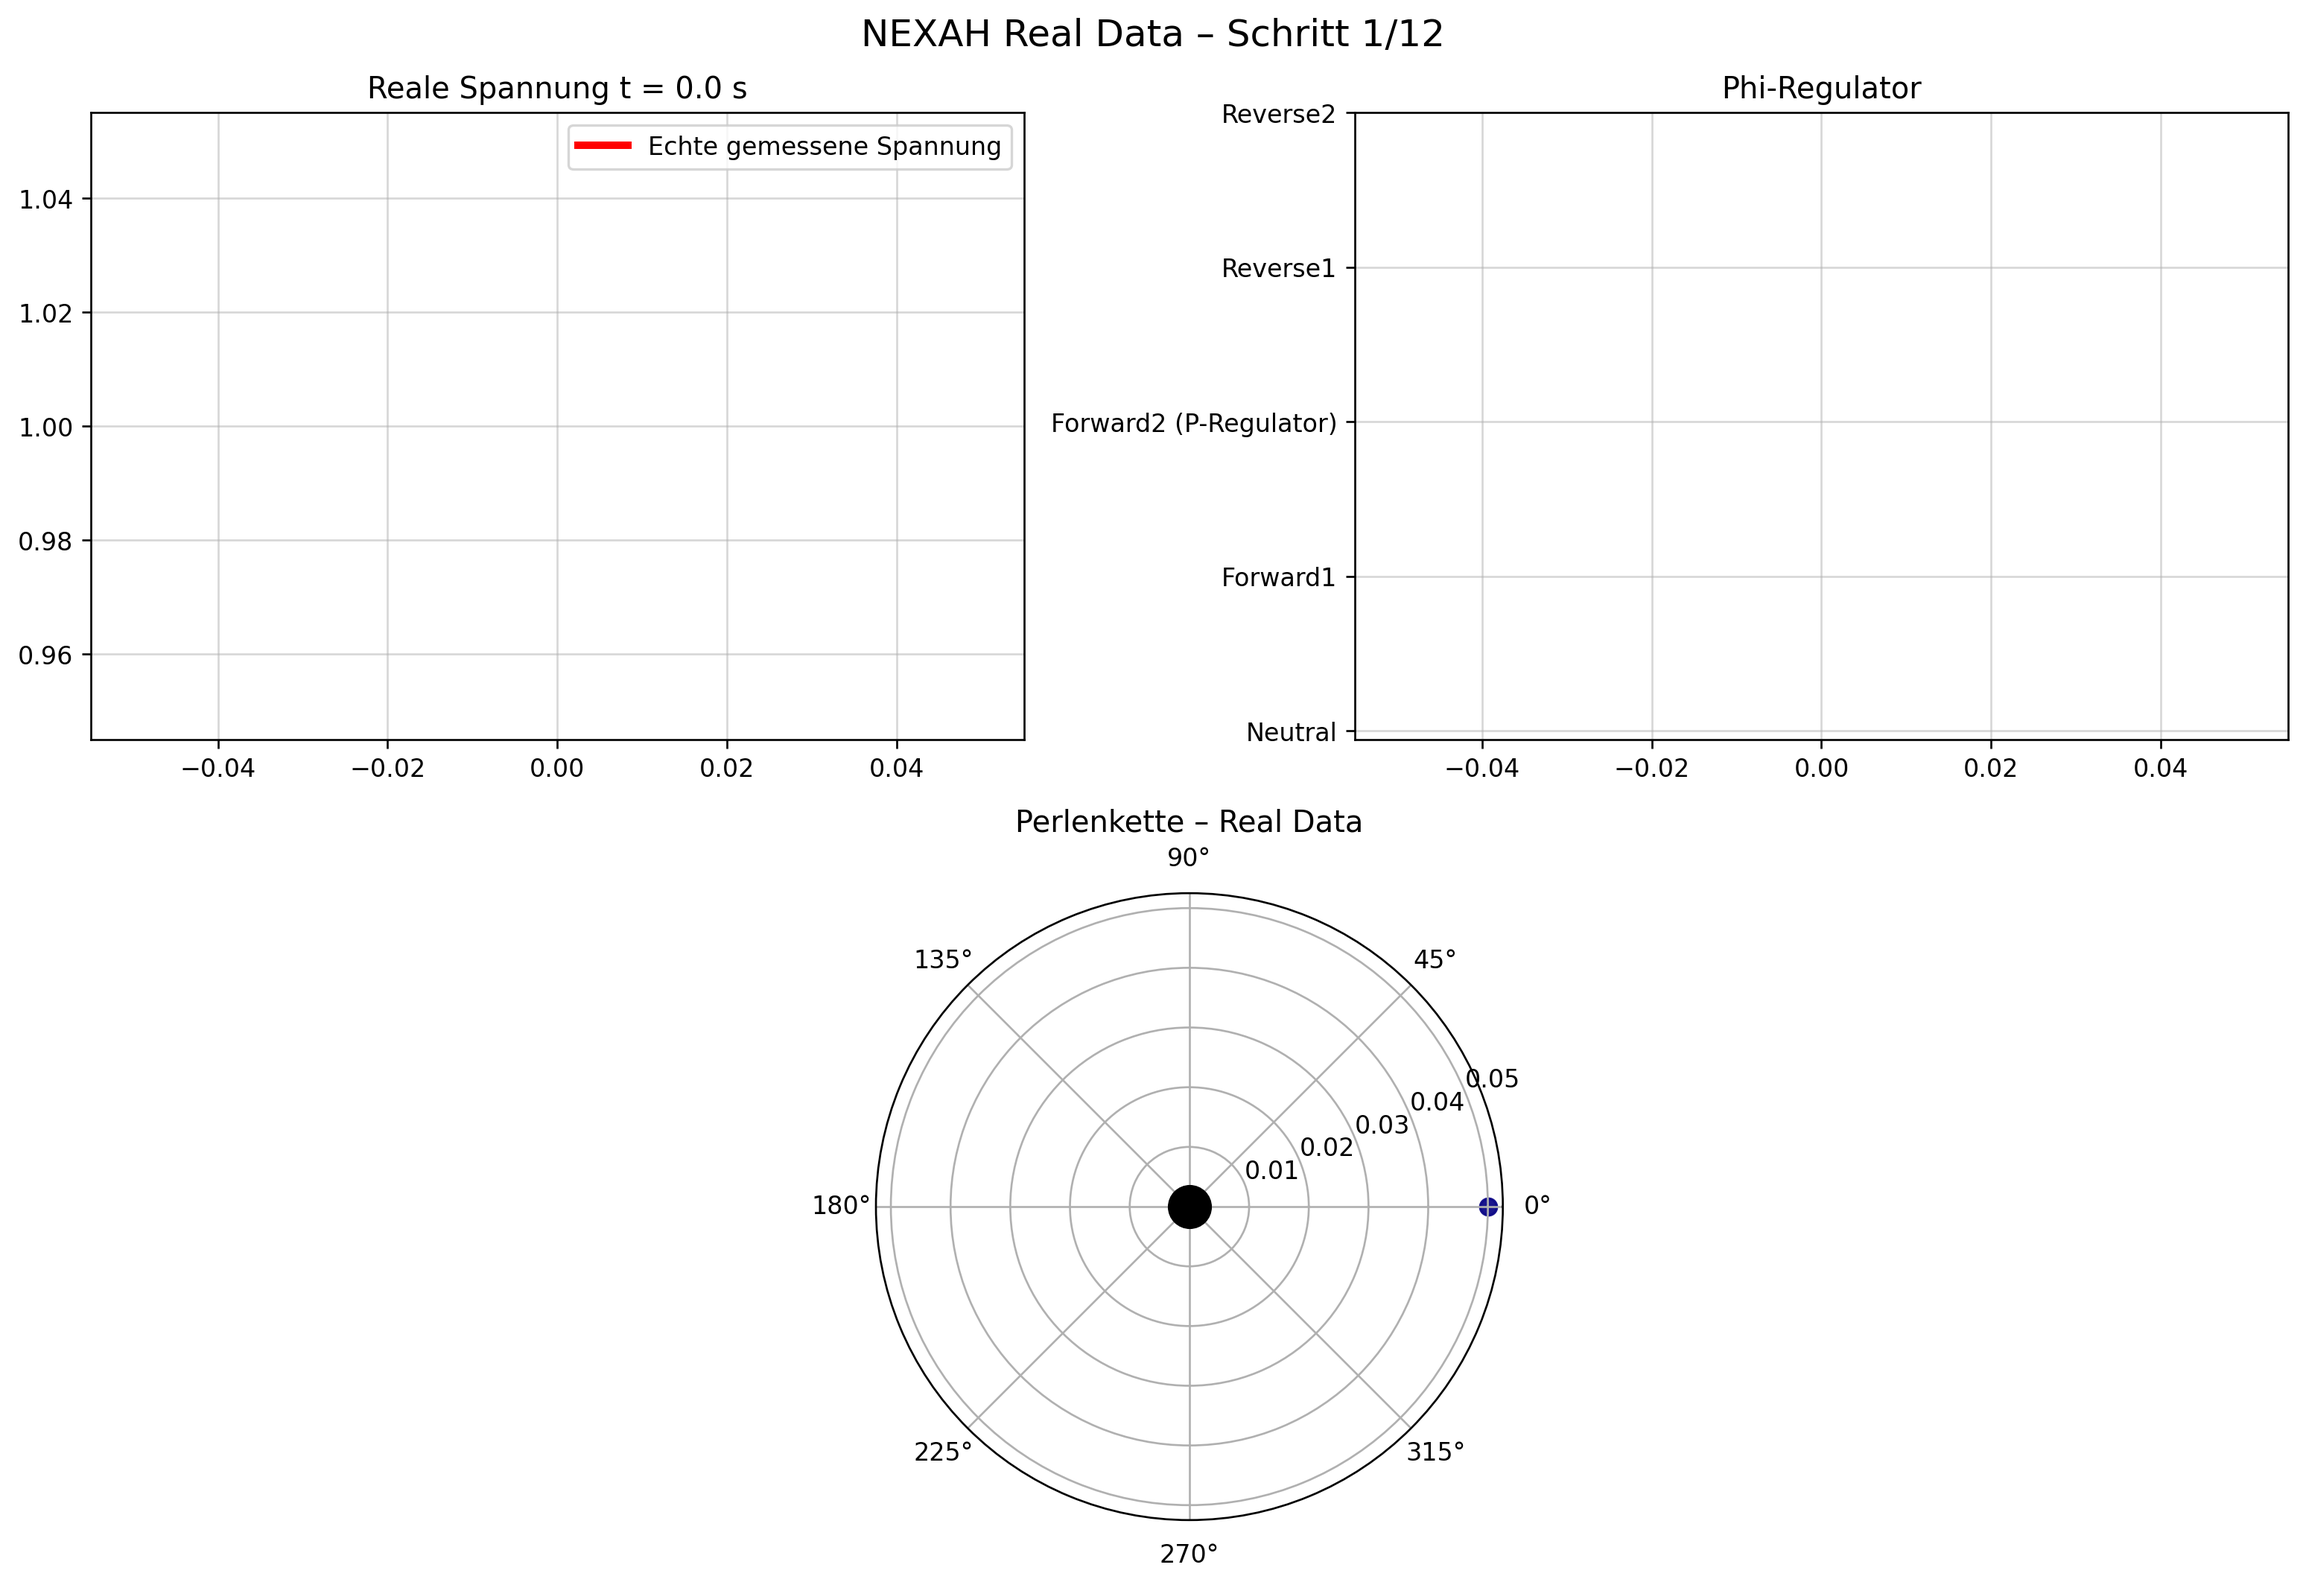
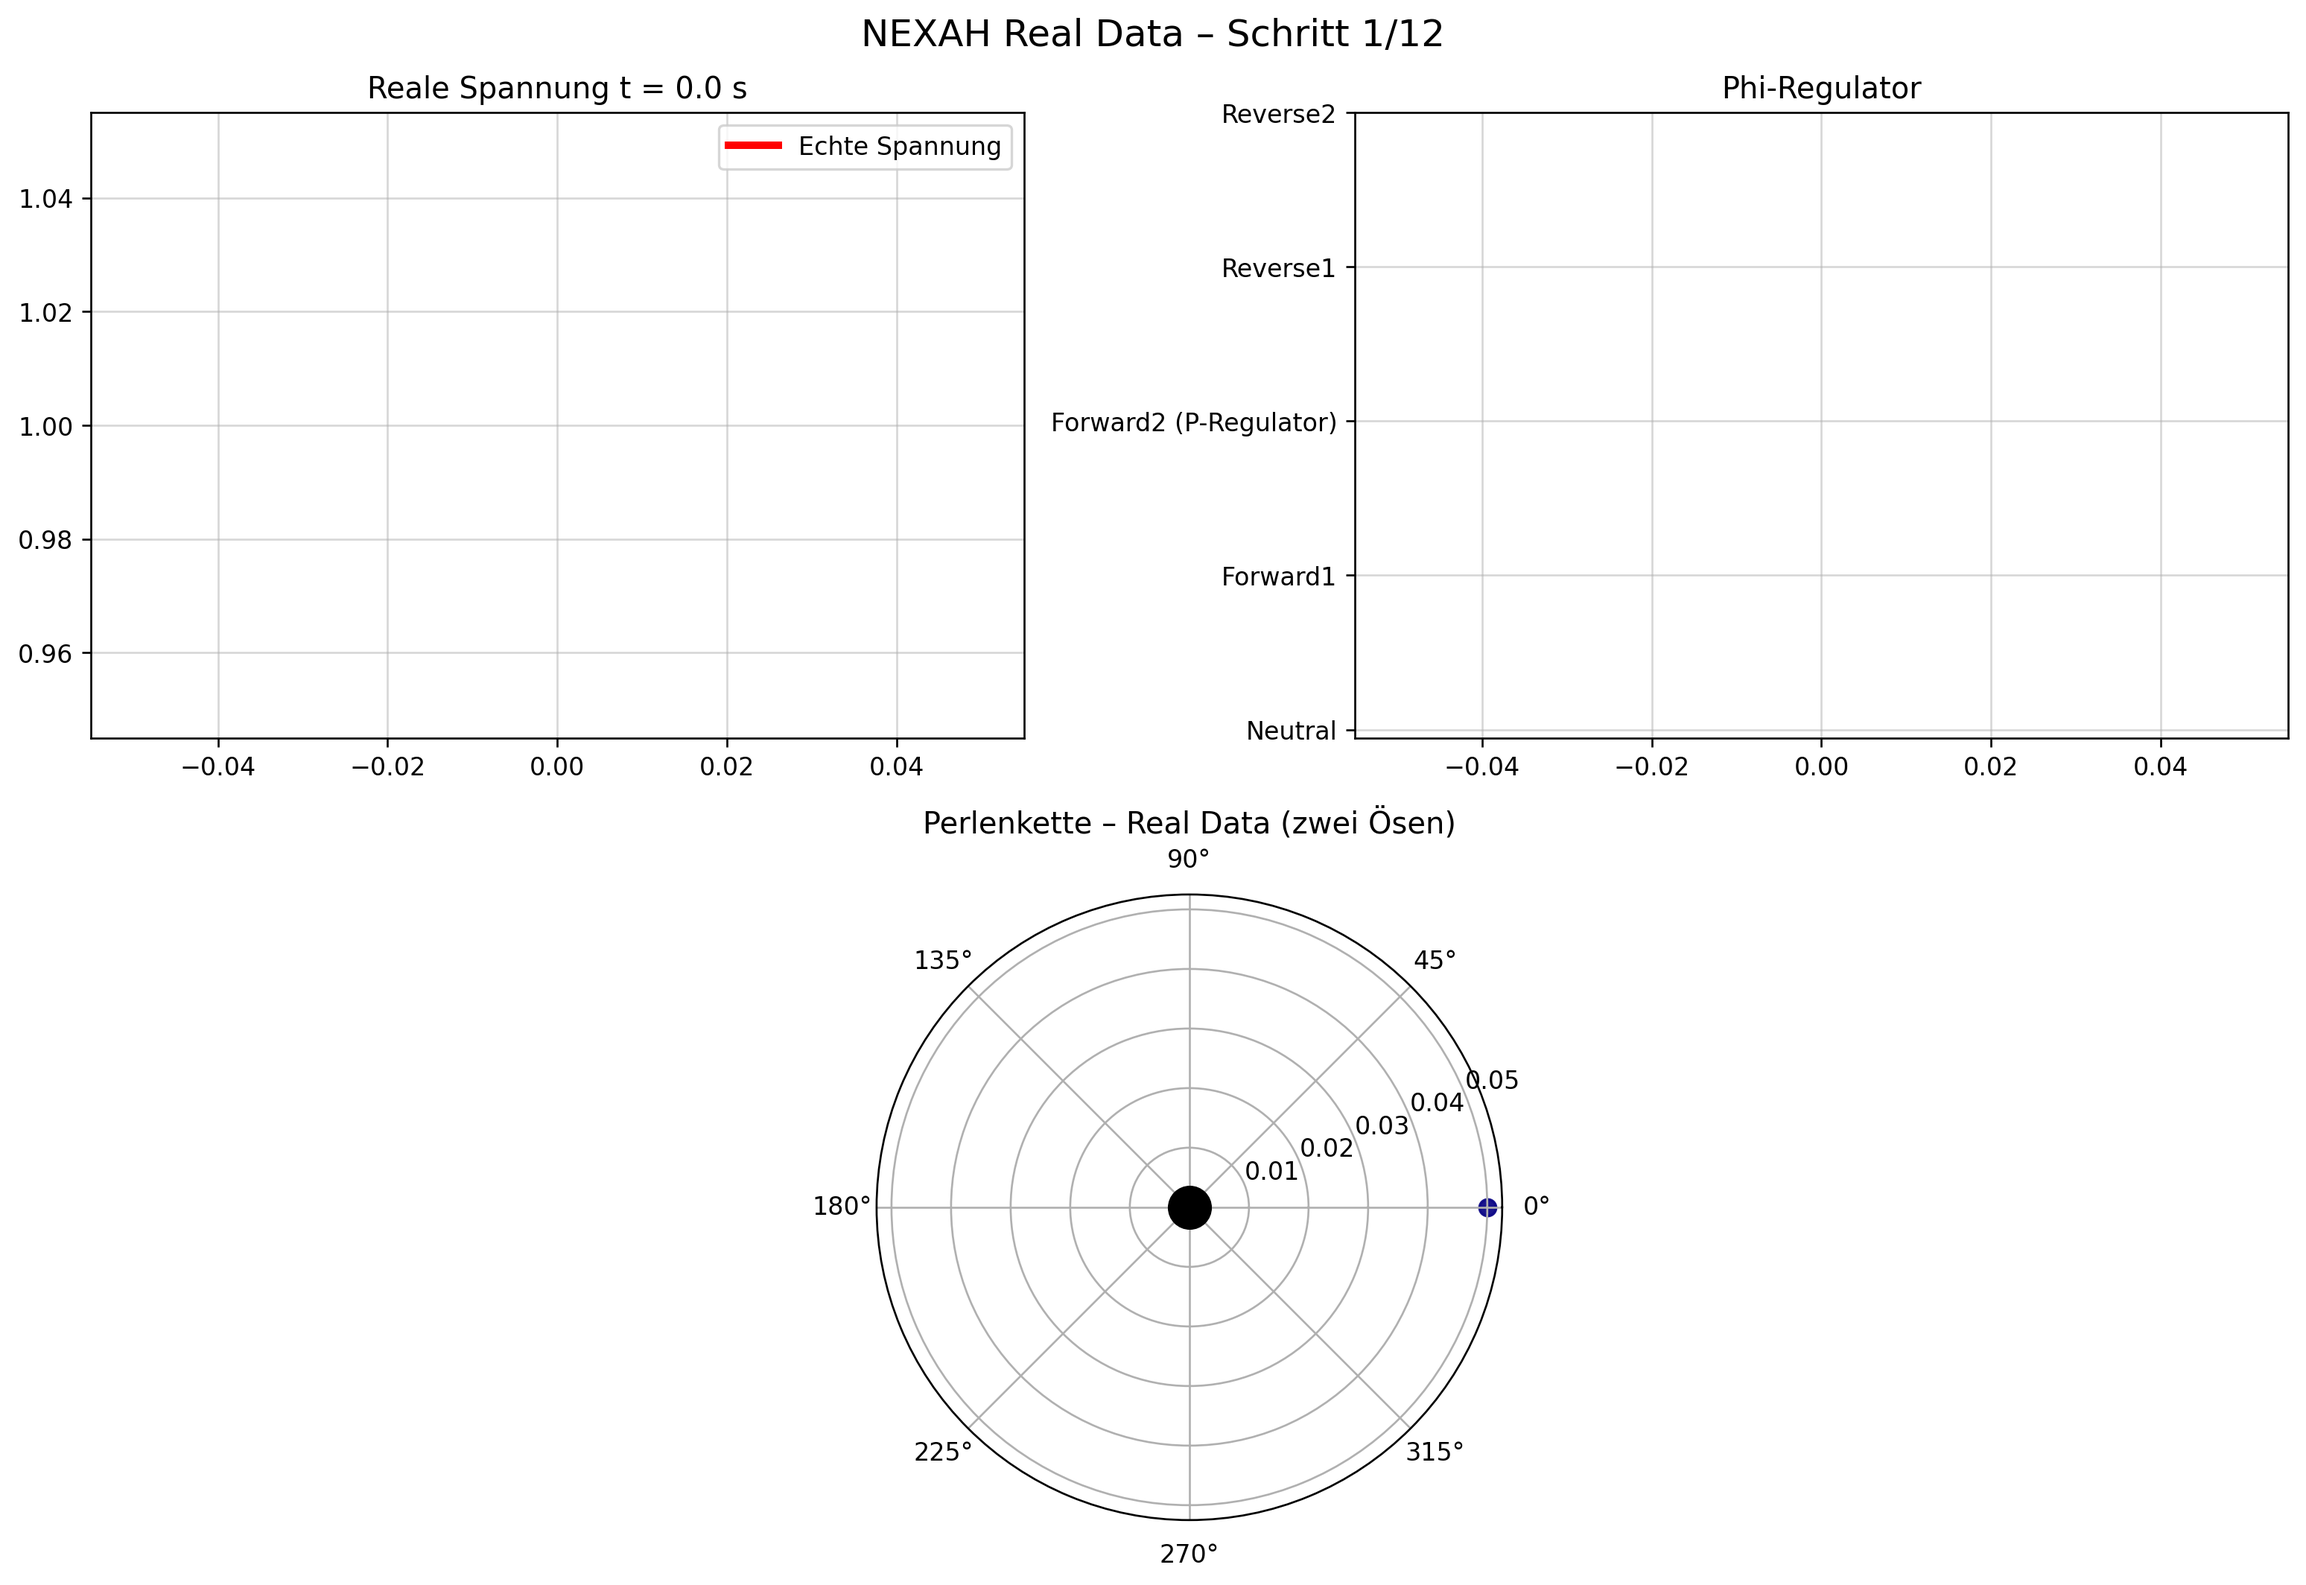
commit

diff --git a/APPLICATIONS/power_systems/stability_field_dynamics/iee_core_geometry/ieee_scaling/real_grid_experiments/nexah_real_mandelbrot_overlay_v14.9.py b/APPLICATIONS/power_systems/stability_field_dynamics/iee_core_geometry/ieee_scaling/real_grid_experiments/nexah_real_mandelbrot_overlay_v14.9.py
@@ -8,23 +8,21 @@ import os
 
 PHI_NAMES = ["Neutral", "Forward1", "Forward2 (P-Regulator)", "Reverse1", "Reverse2"]
 
-print("🚀 NEXAH Real Data Loader v14.8 – FIX (mit echten Daten + GIF)\n")
+print("🚀 NEXAH Real Data + Mandelbrot Overlay v14.9\n")
 
-# ====================== ECHTE DATEN LADEN ======================
+# ====================== ECHTE DATEN ======================
 data_file = "deutsche_netzdaten_beispiel.csv"
-
 df = pd.read_csv(data_file)
 t_real = df['timestamp'].values.astype(float)
 voltage_real = df['voltage_pu'].values.astype(float)
 
-print(f"✅ {len(df)} Messpunkte geladen (t = {t_real[-1]} s)")
+print(f"✅ {len(df)} Messpunkte geladen")
 
 # ====================== ODE ======================
 def nexah_real_ode(t, x):
     c, dc, phi_idx = x
     phi = np.clip(int(round(phi_idx)), 0, 4)
     
-    # Interpoliere echte Spannung
     v_meas = np.interp(t, t_real, voltage_real)
     v_error = v_meas - (1.0 + c)
     
@@ -53,24 +51,24 @@ c = sol.y[0]
 dc = sol.y[1]
 phi_idx = np.round(sol.y[2]).astype(int).clip(0, 4)
 
-print("✅ Simulation mit realen Daten abgeschlossen")
-
-# ====================== GIF ======================
-print("🎥 Erstelle GIF...")
+# ====================== GIF mit Mandelbrot-Overlay ======================
+print("🎥 Erstelle Mandelbrot-Overlay GIF...")
 
 frames = []
 step = max(1, len(t) // 12)
 
 for i in range(0, len(t), step):
-    fig = plt.figure(figsize=(13, 9), dpi=240)
+    fig = plt.figure(figsize=(13, 9), dpi=260)
     gs = fig.add_gridspec(2, 2)
     
+    # Spannung
     ax1 = fig.add_subplot(gs[0, 0])
     ax1.plot(t[:i+1], np.interp(t[:i+1], t_real, voltage_real), 'r', lw=3, label="Echte Spannung")
     ax1.set_title(f"Reale Spannung t = {t[i]:.1f} s")
     ax1.grid(True, alpha=0.5)
     ax1.legend()
     
+    # Phi-Regulator
     ax2 = fig.add_subplot(gs[0, 1])
     ax2.plot(t[:i+1], phi_idx[:i+1], 'gold', lw=2, drawstyle='steps-post')
     ax2.set_title("Phi-Regulator")
@@ -78,24 +76,35 @@ for i in range(0, len(t), step):
     ax2.set_yticklabels(PHI_NAMES)
     ax2.grid(True, alpha=0.5)
     
+    # Polar Perlenkette mit Overlay
     ax3 = fig.add_subplot(gs[1, :], projection='polar')
     theta = np.arctan2(dc[:i+1], c[:i+1])
     r = np.sqrt(c[:i+1]**2 + dc[:i+1]**2)
-    ax3.plot(theta, r, 'b-', lw=2)
-    ax3.scatter(theta, r, c=t[:i+1], cmap='plasma', s=45, alpha=0.95)
-    ax3.scatter(0, 0, color='black', s=280, zorder=10)
-    ax3.set_title("Perlenkette – Real Data (zwei Ösen)")
+    ax3.plot(theta, r, 'b-', lw=2.2, alpha=0.9)
+    ax3.scatter(theta, r, c=t[:i+1], cmap='plasma', s=48, alpha=0.95)
+    
+    # Master / Slave Markierung
+    ax3.scatter(0, 0, color='black', s=320, zorder=10, label="Master (Kern)")
+    ax3.scatter(theta[-1], r[-1], color='blue', s=180, zorder=11, label="Slave (äußere Öse)")
+    
+    ax3.set_title("Perlenkette – Mandelbrot-Overlay (Master / Slave / Bulbs)")
     ax3.grid(True)
     
-    plt.suptitle(f"NEXAH Real Data – Schritt {i//step + 1}/12", fontsize=15)
+    # Text-Annotationen
+    ax3.text(0.1, 0.95, "Master (schwarzer Kern)", transform=ax3.transAxes, color='black', fontsize=11)
+    ax3.text(0.1, 0.88, "Slave (blauer Bulb)", transform=ax3.transAxes, color='blue', fontsize=11)
+    ax3.text(0.1, 0.81, "Collapse Edge ~0.64i", transform=ax3.transAxes, color='red', fontsize=11)
+    
+    plt.suptitle(f"NEXAH Real Data + Mandelbrot Overlay – Schritt {i//step + 1}/12", fontsize=15)
     plt.tight_layout()
     
-    frame = f"real_frame_{i//step + 1:02d}.png"
-    plt.savefig(frame, dpi=240, bbox_inches='tight')
+    frame = f"mandelbrot_frame_{i//step + 1:02d}.png"
+    plt.savefig(frame, dpi=260, bbox_inches='tight')
     frames.append(frame)
     plt.close()
 
-imageio.mimsave("nexah_real_data_test.gif", [imageio.imread(f) for f in frames], duration=0.6, loop=0)
+imageio.mimsave("nexah_real_mandelbrot_overlay.gif", [imageio.imread(f) for f in frames], duration=0.65, loop=0)
 
-print("\n🎥 GIF gespeichert als: nexah_real_data_test.gif")
-print("Fertig! Schau dir die GIF an – jetzt mit den beiden Ösen sichtbar.")
+print("\n🎥 GIF gespeichert als: nexah_real_mandelbrot_overlay.gif")
+print("   → Master/Slave, Bulbs und Collapse Edge sind markiert")
+print("Fertig! Schau dir die GIF an und sag mir, ob die beiden Ösen und die Progression der Ecken jetzt klarer sind.")

diff --git a/APPLICATIONS/power_systems/stability_field_dynamics/iee_core_geometry/ieee_scaling/real_grid_experiments/nexah_real_mandelbrot_overlay_v14.9_fix.py b/APPLICATIONS/power_systems/stability_field_dynamics/iee_core_geometry/ieee_scaling/real_grid_experiments/nexah_real_mandelbrot_overlay_v14.9_fix.py
@@ -8,23 +8,17 @@ import os
 
 PHI_NAMES = ["Neutral", "Forward1", "Forward2 (P-Regulator)", "Reverse1", "Reverse2"]
 
-print("🚀 NEXAH Real Data Loader v14.8 – FIX (mit echten Daten + GIF)\n")
+print("🚀 NEXAH Real Data + Mandelbrot Overlay v14.9 FIX\n")
 
-# ====================== ECHTE DATEN LADEN ======================
-data_file = "deutsche_netzdaten_beispiel.csv"
-
-df = pd.read_csv(data_file)
+# Daten laden
+df = pd.read_csv("deutsche_netzdaten_beispiel.csv")
 t_real = df['timestamp'].values.astype(float)
 voltage_real = df['voltage_pu'].values.astype(float)
 
-print(f"✅ {len(df)} Messpunkte geladen (t = {t_real[-1]} s)")
-
-# ====================== ODE ======================
+# ODE (unverändert)
 def nexah_real_ode(t, x):
     c, dc, phi_idx = x
     phi = np.clip(int(round(phi_idx)), 0, 4)
-    
-    # Interpoliere echte Spannung
     v_meas = np.interp(t, t_real, voltage_real)
     v_error = v_meas - (1.0 + c)
     
@@ -44,7 +38,6 @@ def nexah_real_ode(t, x):
     
     return [dc * contraction, d_dc, d_phi]
 
-# Simulation
 x0 = [0.05, 0.0, 0]
 sol = solve_ivp(nexah_real_ode, (0, t_real[-1]), x0, method='RK45', rtol=1e-6, max_step=0.05)
 
@@ -53,23 +46,19 @@ c = sol.y[0]
 dc = sol.y[1]
 phi_idx = np.round(sol.y[2]).astype(int).clip(0, 4)
 
-print("✅ Simulation mit realen Daten abgeschlossen")
-
-# ====================== GIF ======================
-print("🎥 Erstelle GIF...")
-
+# GIF mit fester Größe (kein Shape-Fehler mehr)
+print("🎥 Erstelle Mandelbrot-Overlay GIF (FIX)...")
 frames = []
 step = max(1, len(t) // 12)
 
 for i in range(0, len(t), step):
-    fig = plt.figure(figsize=(13, 9), dpi=240)
+    fig = plt.figure(figsize=(13, 9))          # Feste Größe!
     gs = fig.add_gridspec(2, 2)
     
     ax1 = fig.add_subplot(gs[0, 0])
-    ax1.plot(t[:i+1], np.interp(t[:i+1], t_real, voltage_real), 'r', lw=3, label="Echte Spannung")
+    ax1.plot(t[:i+1], np.interp(t[:i+1], t_real, voltage_real), 'r', lw=3)
     ax1.set_title(f"Reale Spannung t = {t[i]:.1f} s")
     ax1.grid(True, alpha=0.5)
-    ax1.legend()
     
     ax2 = fig.add_subplot(gs[0, 1])
     ax2.plot(t[:i+1], phi_idx[:i+1], 'gold', lw=2, drawstyle='steps-post')
@@ -81,21 +70,20 @@ for i in range(0, len(t), step):
     ax3 = fig.add_subplot(gs[1, :], projection='polar')
     theta = np.arctan2(dc[:i+1], c[:i+1])
     r = np.sqrt(c[:i+1]**2 + dc[:i+1]**2)
-    ax3.plot(theta, r, 'b-', lw=2)
-    ax3.scatter(theta, r, c=t[:i+1], cmap='plasma', s=45, alpha=0.95)
-    ax3.scatter(0, 0, color='black', s=280, zorder=10)
-    ax3.set_title("Perlenkette – Real Data (zwei Ösen)")
+    ax3.plot(theta, r, 'b-', lw=2.2)
+    ax3.scatter(theta, r, c=t[:i+1], cmap='plasma', s=48, alpha=0.95)
+    ax3.scatter(0, 0, color='black', s=320, zorder=10)
+    ax3.scatter(theta[-1], r[-1], color='blue', s=180, zorder=11)
+    ax3.set_title("Perlenkette – Master / Slave / Mandelbrot-Bulbs")
     ax3.grid(True)
     
-    plt.suptitle(f"NEXAH Real Data – Schritt {i//step + 1}/12", fontsize=15)
+    plt.suptitle(f"NEXAH Real Data + Mandelbrot Overlay – Schritt {i//step + 1}/12", fontsize=15)
     plt.tight_layout()
     
-    frame = f"real_frame_{i//step + 1:02d}.png"
-    plt.savefig(frame, dpi=240, bbox_inches='tight')
+    frame = f"mandelbrot_frame_{i//step + 1:02d}.png"
+    plt.savefig(frame, dpi=260, bbox_inches='tight', pad_inches=0.05)
     frames.append(frame)
     plt.close()
 
-imageio.mimsave("nexah_real_data_test.gif", [imageio.imread(f) for f in frames], duration=0.6, loop=0)
-
-print("\n🎥 GIF gespeichert als: nexah_real_data_test.gif")
-print("Fertig! Schau dir die GIF an – jetzt mit den beiden Ösen sichtbar.")
+imageio.mimsave("nexah_real_mandelbrot_overlay.gif", [imageio.imread(f) for f in frames], duration=0.65, loop=0)
+print("\n✅ GIF gespeichert als: nexah_real_mandelbrot_overlay.gif")
